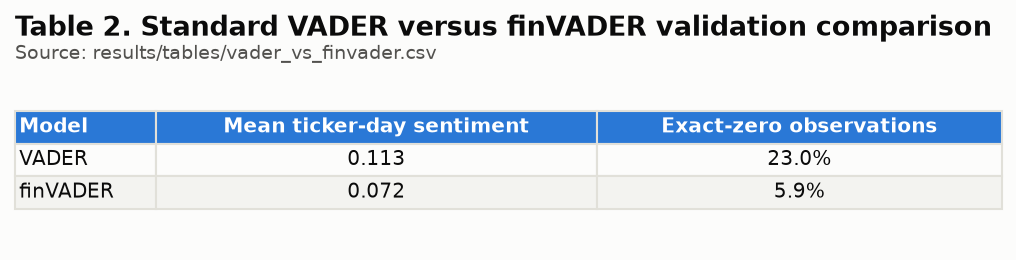
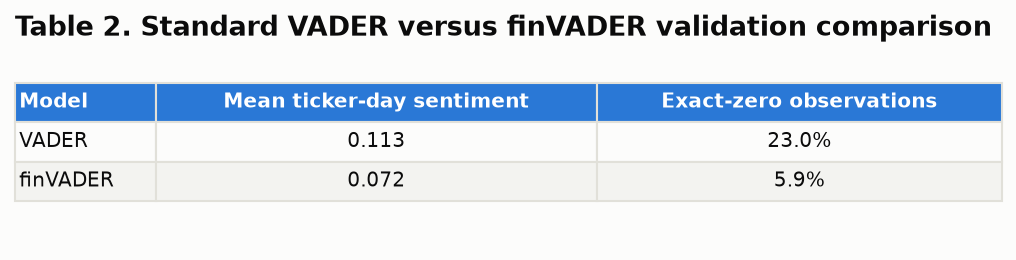
Drop the redundant Source line from table images (already stated in the report captions)

Changed region(s): [[0.0, 0.3077, 1.0, 0.7692], [0.0, 0.8, 1.0, 0.8308], [0.0, 0.1846, 0.4272, 0.2462]]

diff --git a/scripts/run_part_b.py b/scripts/run_part_b.py
@@ -486,16 +486,14 @@ def table_images():
     main.columns = ["Fund", "Ann. return", "Ann. vol.", "Sharpe", "Max DD", "Effective N"]
     save_table_image(main, "table1_performance_metrics.png",
                       "Table 1. Out-of-sample performance and latest effective number of holdings",
-                      "Equity/Combined annualised with 252 days; Crypto with 365. "
-                      "Source: results/tables/performance_metrics.csv")
+                      "Equity/Combined annualised with 252 days; Crypto with 365")
 
     vf = pd.read_csv(RESULTS / "tables" / "vader_vs_finvader.csv")
     vf["mean_sentiment"] = vf["mean_sentiment"].round(3)
     vf["pct_exact_zero"] = (vf["pct_exact_zero"] * 100).round(1).astype(str) + "%"
     vf.columns = ["Model", "Mean ticker-day sentiment", "Exact-zero observations"]
     save_table_image(vf, "table2_vader_vs_finvader.png",
-                      "Table 2. Standard VADER versus finVADER validation comparison",
-                      "Source: results/tables/vader_vs_finvader.csv")
+                      "Table 2. Standard VADER versus finVADER validation comparison")
 
     fc = pd.read_csv(RESULTS / "tables" / "fusion_comparison.csv")
     fc_disp = fc[["fund", "annualised_return", "annualised_volatility", "sharpe_ratio",
@@ -509,8 +507,7 @@ def table_images():
     fc_disp["fund"] = ["Equity Max-Sharpe", "+ Sentiment tilt"]
     fc_disp.columns = ["Fund", "Return", "Vol.", "Sharpe", "Max DD", "Turnover", "Effective N"]
     save_table_image(fc_disp, "table3_fusion_comparison.png",
-                      "Table 3. Equity Max-Sharpe before and after the 0.50 sentiment tilt",
-                      "Source: results/tables/fusion_comparison.csv")
+                      "Table 3. Equity Max-Sharpe before and after the 0.50 sentiment tilt")
 
     fr = pd.read_csv(RESULTS / "tables" / "fusion_robustness.csv")
     fr["annualised_return"] = (fr["annualised_return"] * 100).round(2).astype(str) + "%"
@@ -521,8 +518,7 @@ def table_images():
     fr["tilt_strength"] = fr["tilt_strength"].map(lambda x: f"{x:.2f}")
     fr.columns = ["Tilt k", "Ann. return", "Ann. vol.", "Sharpe", "Max DD", "Turnover"]
     save_table_image(fr, "table4_fusion_robustness.png",
-                      "Table 4. Pre-specified sentiment-tilt robustness test",
-                      "Source: results/tables/fusion_robustness.csv")
+                      "Table 4. Pre-specified sentiment-tilt robustness test")
 
     full = perf.copy()
     for c in ["annualised_return", "annualised_volatility", "max_drawdown", "avg_turnover", "latest_max_weight"]:
@@ -535,8 +531,7 @@ def table_images():
                  "periods_per_year"]]
     full.columns = ["Fund", "Return", "Vol.", "Sharpe", "Max DD", "Turnover", "Max wt.", "HHI", "Eff. N", "Ann."]
     save_table_image(full, "tableB1_full_diagnostics.png",
-                      "Table B1. Full performance metrics, including implementation and concentration diagnostics",
-                      "Source: results/tables/performance_metrics.csv")
+                      "Table B1. Full performance metrics, including implementation and concentration diagnostics")
 
     print("saved 5 table images to results/tables/")
 
